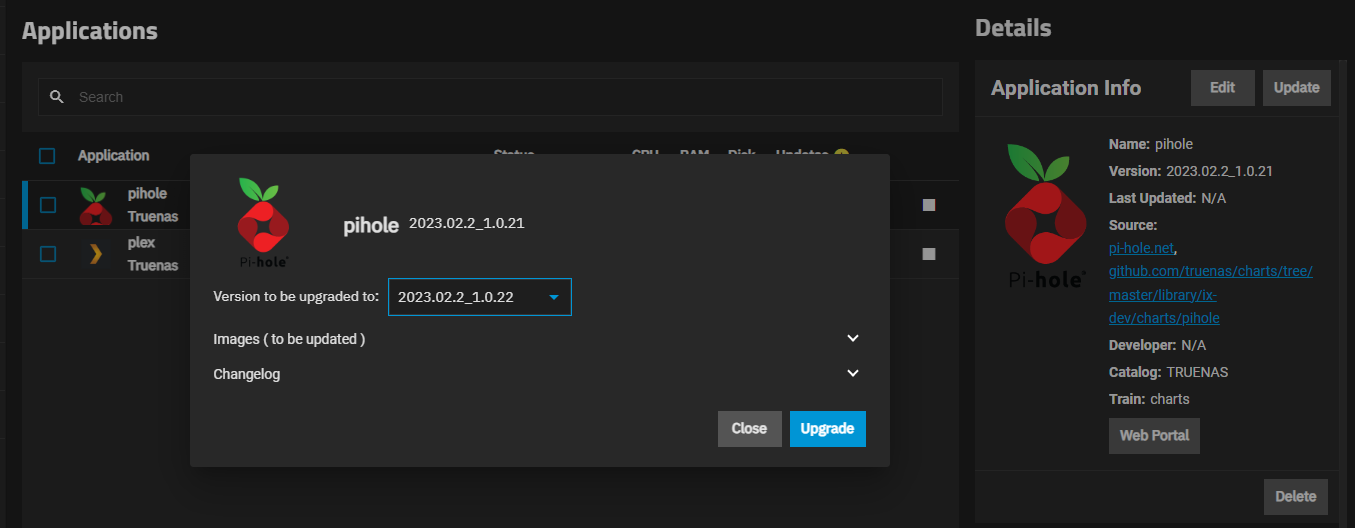
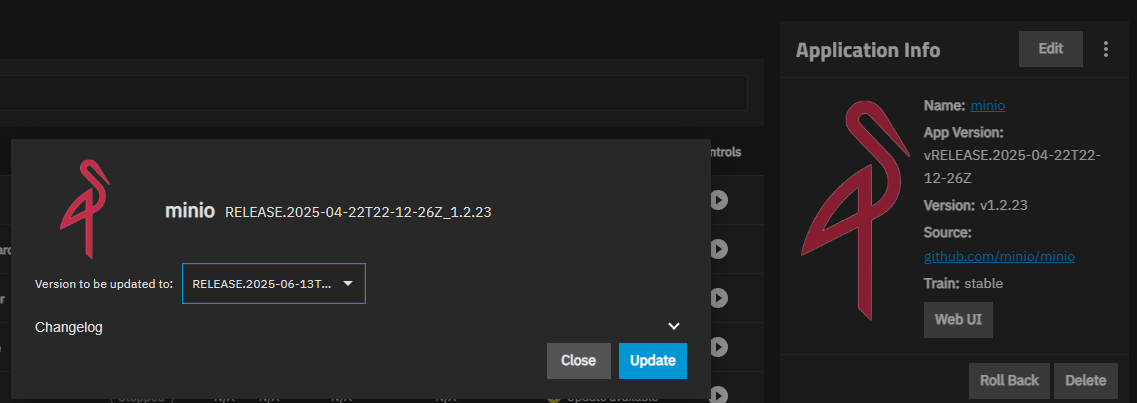
Pd 1830 document app migration with pool change (#76)
* Update initial-setup.md

* Update managing-installed-apps.md

* Update ApplicationInfoWidget.png

* Update AppUpdateWindow.png

* Update managing-installed-apps.md

* Create ChoosePoolMigrate.png

* Create ConvertToCustomAppDialog.png

* Update InstalledAppsBulkActions.png

* Create InstalledAppsBulkActionUpdateDialog.png

* Create RollBackDialog.png

* Create MigrateExisting.md

* Update managing-installed-apps.md

diff --git a/content/managing-apps/managing-installed-apps.md b/content/managing-apps/managing-installed-apps.md
@@ -1,6 +1,6 @@
 ---
 title: "Managing Installed Apps"
-description: "Provides information on managing apps in TrueNAS including upgrading, deleting, stopping and starting, and managing container images."
+description: "Provides information on managing apps in TrueNAS including updating, deleting, stopping and starting, and managing container images."
 GeekdocShowEdit: true
 geekdocEditPath: "edit/main/content/managing-apps/managing-installed-apps.md"
 doctype: tutorial
@@ -8,7 +8,7 @@ tags:
 - apps
 keywords:
   - TrueNAS app management
-  - upgrading TrueNAS apps
+  - updating TrueNAS apps
   - deleting TrueNAS apps
   - managing Docker apps
   - container image management
@@ -29,37 +29,55 @@ Click on an app row to view **Details**, including the **Application Info**, **W
 {{< trueimage src="/images/Apps/InstalledAppsScreenWithApps.png" alt="Installed Applications Screen" id="Installed Applications Screen" >}}
 
 ## Editing Apps
+
 From the **Application Info** widget, click **Edit** to edit app configuration settings.
 
 In the **Edit** screen, users can change all initial configuration settings apart from application name and type of storage volume.
 
 After making all desired configuration changes, click **Update** and the bottom of the **Edit** screen to save all modifications. Changes are applied automatically after you have updated the app configuration.
 
-## Upgrading Apps
+## Updating Apps
 
-Apps with available upgrades show a yellow circle with an exclamation point on the right side of the **Applications** table row, and the **Installed** application screen banner displays an **Update** or an **Update All** button.
-To upgrade an app, select the app row and click **Update** on the **Application Info** widget.
-To upgrade multiple apps, either click the **Update All** button on the **Installed** applications banner or select the checkbox to the left of the application row to show the **Bulk Actions** button.
-Click **Bulk Actions** and select **Upgrade All** to upgrade the apps selected.
-Upgrade options only show if TrueNAS detects an available update for installed applications.
+Apps with available updates show a yellow circle with an exclamation point on the right side of the **Applications** table row, and the **Installed** application screen banner displays an **Update** or an **Update All** button.
+To update an app, select the app row and click <i class="material-icons" aria-hidden="true" title="more_vert">more_vert</i> on the **Application Info** widget, then select **Update** from the dropdown menu.
+To update multiple apps, either click the **Update All** button on the **Installed** applications banner or select the checkbox to the left of the application row to show the **Bulk Actions** button.
+Click **Bulk Actions** and select **Update All** to update the apps selected.
+Update options only show if TrueNAS detects an available update for installed applications.
 
-**Update** opens an upgrade window that includes two selectable options, **Images (to be updated)** and **Changelog**.
+**Update** opens an update window that includes two selectable options, **Images (to be updated)** and **Changelog**.
 Click on the down arrow to see the options available for each.
 
 {{< trueimage src="/images/Apps/AppUpdateWindow.png" alt="Update Application Window" id="Update Application Window" >}}
 
-Click **Upgrade** to begin the process. A counter dialog opens showing the upgrade progress.
+Click **Update** to begin the process. A counter dialog opens showing the update progress.
 When complete, the update badge and buttons disappear and the application **Update** state on the **Installed** screen changes from **Update Available** to **Up to date**.
 
 ### Rolling Back to Previous Versions
 
-To roll back an application to a previous version, select the app you wish to roll back from the **Installed** applications screen. This opens the **Application Info** widget on the right side of the screen and provides users with the **Roll Back** button.
+To roll back an application to a previous version, select the app you wish to roll back from the **Installed** applications screen.
+This opens the **Application Info** widget on the right side of the screen and provides users with the **Roll Back** button.
 
-{{< trueimage src="/images/Apps/RollBackWindow.png" alt="Roll Back Window" id="Roll Back Window" >}}
+{{< trueimage src="/images/apps/RollBackDialog.png" alt="Roll Back Dialog" id="Roll Back Dialog" >}}
 
-After clicking the **Roll Back** button, a small window opens in the UI. Use this window to select the version you want to roll the app back to from the **Version** dropdown menu.
+The **Version** dropdown contains available app versions for roll back.
+The version numbers displayed are the version of the app in the TrueNAS catalog, equivalent to the **Version** displayed on the app information card.
+It is not equal to the **App Version** or the upstream release version.
+See [Understanding Versions](https://apps.truenas.com/managing-apps/discovering-apps/#understanding-versions) for more information.
 
-Users should check the **Roll back snapshots** option if they want to roll back dataset snapshots along with the app configuration. 
+
+Click **Roll back snapshots** to restore the application data volume to match the selected version by rolling back to the snapshot for that version.
+This reverts both the application and app data stored in the apps pool to the exact state from when the snapshot was created.
+
+{{< hint type=note >}}
+**Roll back snapshots** only affects data saved in the apps dataset, such as iXvolume storage.
+Data in mounted host paths is not rolled back.
+{{< /hint >}}
+
+Click **Roll Back** to begin the operation.
+
+## Migrating Existing Applications
+
+{{< include file="/static/includes/apps/MigrateExisting.md" >}}
 
 ## Deleting Apps
 
@@ -86,6 +104,7 @@ Running apps show the restart icon button that allows you to stop and then resta
 Click the <span class="material-icons">restart_alt</span> icon button to stop then automatically restart the app.
 
 ## Viewing Workloads
+
 The **Workloads** widget shows ports and container information.
 Each container includes buttons to access a container shell, view volume mounts, and view logs.
 
@@ -106,12 +125,26 @@ Select options in **Logs Details** and click **Connect** to view logs for the co
 Many of the management options available for catalog applications are also available for custom apps.
 
 TrueNAS monitors upstream images and alerts when an updated version is available.
-Update custom applications using the [same procedure](/managing-apps/managing-installed-apps/#upgrading-apps) as catalog applications.
+Update custom applications using the [same procedure](/managing-apps/managing-installed-apps/#updating-apps) as catalog applications.
 
 {{< trueimage src="/images/Apps/CustomAppDetails.png" alt="App Details Widgets" id="App Details Widgets" >}}
 
 Custom applications installed via YAML do not include the **Web UI** button on the **Application Info** widget.
 To access the web UI for a custom app, navigate to the port on the TrueNAS system, for example, *hostname.domain:8080*.
+
+### Converting Catalog to Custom Applications
+
+To convert an installed catalog application to a custom YAML application, select the app row and click <i class="material-icons" aria-hidden="true" title="more_vert">more_vert</i> on the **Application Info** widget, then select **Convert to custom app** from the dropdown menu.
+Converting to a custom app direct editing to YAML configuration file.
+
+{{< trueimage src="/images/apps/ConvertToCustomAppDialog.png" alt="Convert to Custom App Dialog" id="Convert to Custom App Dialog" >}}
+
+{{< hint type=warning title="Permanent Action" >}}
+**Convert to custom app** is a one-time, permanent operation.
+Once converted, an custom application cannot be converted back to a catalog version.
+{{< /hint >}}
+
+Select **Confirm** then click **Convert** to begin the conversion process.
 
 ## Next Steps
 

diff --git a/content/getting-started/initial-setup.md b/content/getting-started/initial-setup.md
@@ -45,9 +45,18 @@ If you close the dialog to set the pool later, click **Configuration > Choose Po
 
 {{< include file="/static/includes/apps/AppsPool.md" >}}
 
+### Migrating Existing Applications
+
+{{< include file="/static/includes/apps/MigrateExisting.md" >}}
+
 ### Unsetting the Apps Pool
 
-To select a different pool for apps to use, click **Configuration > Unset Pool**. This turns off the apps service until you choose another pool for apps to use.
+To remove the apps pool configuration, click **Unset Pool** on the **Settings** menu.
+
+{{< trueimage src="/images/apps/AppsUnsetPoolDialog.png" alt="Apps Unset Pool" id="Apps Unset Pool" >}}
+
+Click **Unset** to confirm.
+This turns off the apps service until you choose another pool for apps to use.
 
 ## Managing Container Images
 

diff --git a/static/includes/apps/MigrateExisting.md b/static/includes/apps/MigrateExisting.md
@@ -1,0 +1,12 @@
+&NewLine;
+
+If you select a new pool in the **Pool** dropdown after [previously configuring the apps service](/getting-started/initial-setup/#choosing-the-apps-pool), the dialog displays the **Migrate existing applications** option.
+
+{{< trueimage src="/images/apps/ChoosePoolMigrate.png" alt="Migrate Existing Applications" id="Migrate Existing Applications" >}}
+
+Click **Migrate existing applications** to migrate all installed applications to the new applications pool.
+
+{{< hint type=note >}}
+**Migrate existing applications** only affects data saved in the apps dataset, such as the installed app loacation and iXvolume storage.
+Data in mounted host paths is migrated.
+{{< /hint >}}
